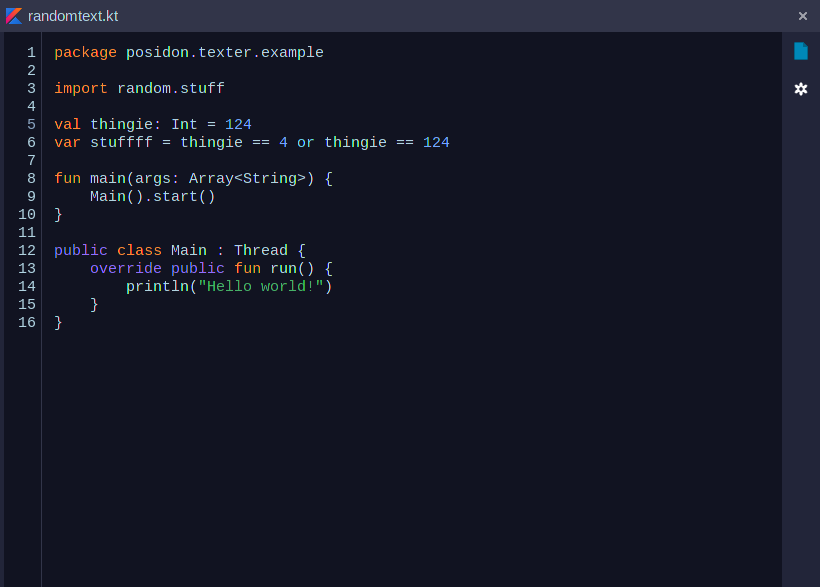
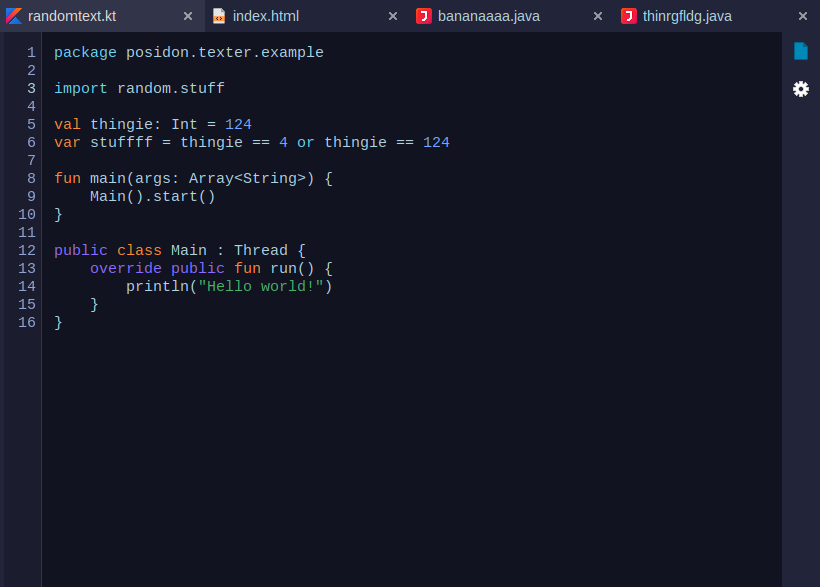
changed the texter screenshot

diff --git a/texter.html b/texter.html
@@ -48,8 +48,8 @@
 		<center>
 			<h1>Texter</h1>
 			<div class="desktopWindow">
-				<p><img src="texter/close.png" draggable="false" style="float: left">texter - texter.html</p>
-				<img src="texter/screenshots/html.png" draggable="false">
+				<p><img src="texter/close.png" draggable="false" style="float: left">texter - randomtext.kt</p>
+				<img src="texter/screenshots/kotlin.png" draggable="false">
 			</div><br>
 			<div style="width: 256px; margin-top: 18px; margin-bottom: 24px">
 				<a class="downloadBtn" href="texter/download">Download</a>
